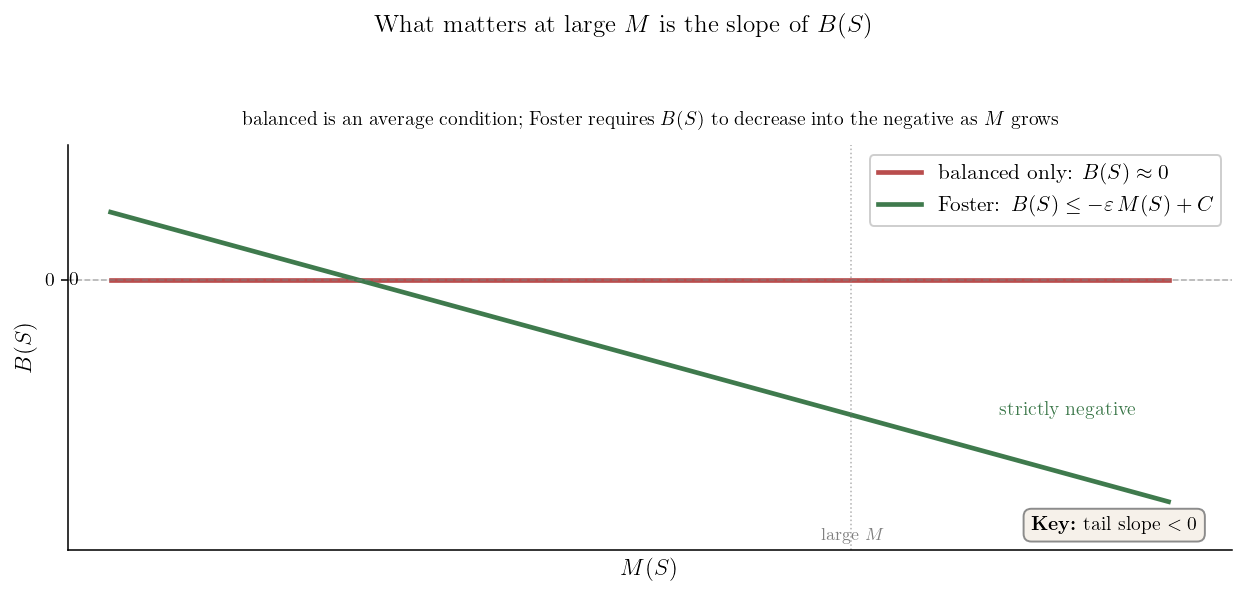
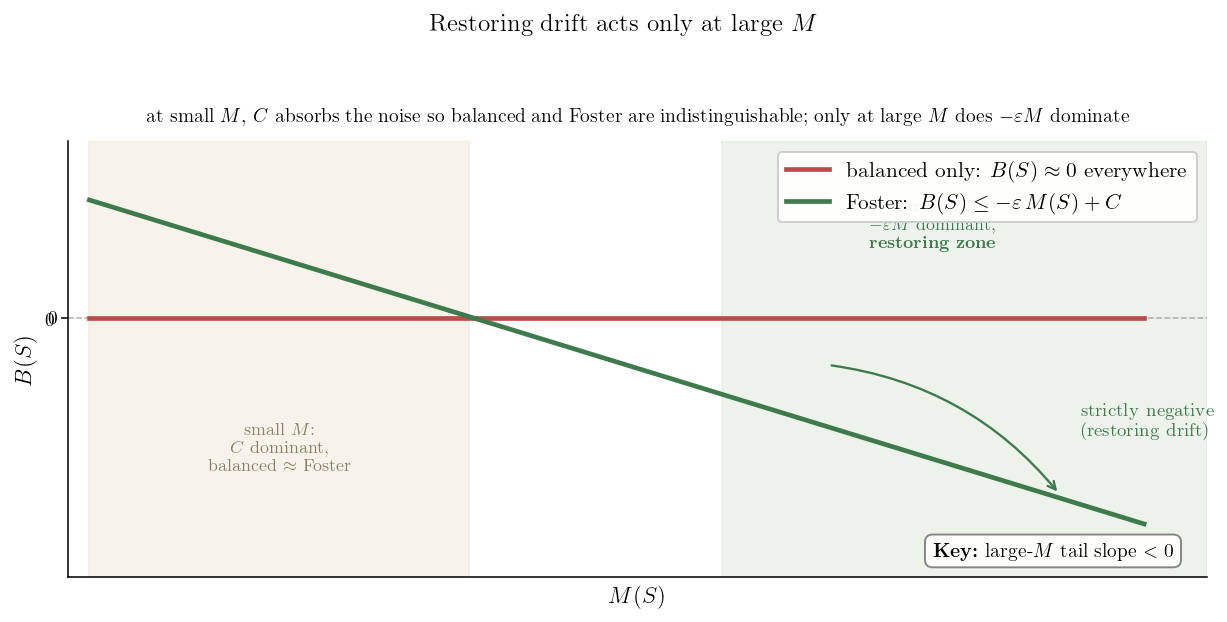
fix: Foster — _05 scatter+jackknife CI 양식, _07 직관 figure 정정 (small-M C zone / large-M restoring zone), 표·결론 단락 update

diff --git a/docs/Posts/260522_31c9e5.html b/docs/Posts/260522_31c9e5.html
@@ -300,79 +300,97 @@ window.Quarto = {
 </table>
 <p>Foster’s drift criterion (Assumption 1) 은 어떤 graph-level constant <span class="math inline">\(\varepsilon_B &gt; 0\)</span>, <span class="math inline">\(C_B \ge 0\)</span> 가 존재해서 모든 round 에서</p>
 <p><span class="math display">\[B(S_{t_r}) \;\le\; -\varepsilon_B\, M(S_{t_r}) + C_B\]</span></p>
-<p>가 성립하길 요구하는데, 여기서 <span class="math inline">\(B(S_{t_r}) = \sum_u \pi(u, S_{t_r}) \hbar(u, t_r)\)</span> 는 round 시작 시점의 weighted height deposit (Lemma 3 정의), <span class="math inline">\(\pi(u, S) = \mathbb{E}[\#_u | S_{t_r}]\)</span> 는 round 길이 동안 노드 <span class="math inline">\(u\)</span> 의 visit count 의 조건부 기댓값이다. 이 가정의 핵심 함의는 결국 height range <span class="math inline">\(M(t)\)</span> 가 시간 흐름에서 bounded 라는 것이다 — <span class="math inline">\(\varepsilon_B &gt; 0\)</span> 가 작동하면 큰 <span class="math inline">\(M\)</span> 에서 음의 drift 가 작용해 <span class="math inline">\(M\)</span> 이 다시 작아져 stationary 분포 위에 머문다 (positive Harris recurrence). 가정이 깨지면 <span class="math inline">\(M\)</span> 이 발산. 직관적으로 balanced 만 보장하는 그래프 (<span class="math inline">\(B \approx 0\)</span>, 평평) 와 Foster 가 발효되는 그래프 (large-<span class="math inline">\(M\)</span> 에서 <span class="math inline">\(B\)</span> 가 음수로 strictly 내려감) 의 차이가 large-<span class="math inline">\(M\)</span> tail 의 slope 부호 하나로 갈린다.</p>
+<p>가 성립하길 요구하는데, 여기서 <span class="math inline">\(B(S_{t_r}) = \sum_u \pi(u, S_{t_r}) \hbar(u, t_r)\)</span> 는 round 시작 시점의 weighted height deposit (Lemma 3 정의), <span class="math inline">\(\pi(u, S) = \mathbb{E}[\#_u | S_{t_r}]\)</span> 는 round 길이 동안 노드 <span class="math inline">\(u\)</span> 의 visit count 의 조건부 기댓값이다. 이 가정의 핵심 함의는 결국 height range <span class="math inline">\(M(t)\)</span> 가 시간 흐름에서 bounded 라는 것이다 — <span class="math inline">\(\varepsilon_B &gt; 0\)</span> 가 작동하면 큰 <span class="math inline">\(M\)</span> 에서 음의 drift 가 작용해 <span class="math inline">\(M\)</span> 이 다시 작아져 stationary 분포 위에 머문다 (positive Harris recurrence). 가정이 깨지면 <span class="math inline">\(M\)</span> 이 발산. 직관적으로 <strong>복원력은 large-<span class="math inline">\(M\)</span> 영역에서만 작동한다</strong> — 작은 <span class="math inline">\(M\)</span> 영역에선 <span class="math inline">\(C_B\)</span> term 가 noise 를 흡수해 <span class="math inline">\(B\)</span> 가 양수도 음수도 OK, balanced 만 만족하는 그래프와 Foster 가 발효되는 그래프가 사실상 구분 안 된다. 두 condition 의 차이는 <span class="math inline">\(-\varepsilon_B M\)</span> term 가 dominant 해지는 large-<span class="math inline">\(M\)</span> tail 의 slope 부호 하나로 갈린다.</p>
 <p><img src="attachments/260522_31c9e5_07.png" class="img-fluid"></p>
 <p>그러니 <span class="math inline">\(M\)</span> 시계열의 long-run behavior 가 가정의 진짜 의미를 직접 보여준다 — 위 시계열 figure 가 그 자체로 Assumption 1 의 graph-별 검증이다.</p>
 <p>가정의 정량 검증은 <span class="math inline">\(\mathbb{E}[B \mid M]\)</span> 의 large-<span class="math inline">\(M\)</span> 부호. instantaneous 추정 <span class="math inline">\(B^{\rm emp}_r := \sum_u \#_u(r) \hbar(u, t_r)\)</span> 를 round 별 sample 로 기록하고, <span class="math inline">\((M_r, B^{\rm emp}_r)\)</span> sample 들을 log-spaced <span class="math inline">\(M\)</span>-bin 으로 group 하여 bin 별 평균 <span class="math inline">\(\overline{B}_{\rm bin}\)</span> 을 직접 추정한다. 이 binned conditional 추정의 large-<span class="math inline">\(M\)</span> tail 의 linear fit slope 의 부호가 가정의 <span class="math inline">\(\varepsilon_B\)</span> 부호 판정의 정확한 양식이다 — 양수 slope = 가정 위반, 음수 slope = 가정 만족.</p>
 <p><img src="attachments/260522_31c9e5_05.png" class="img-fluid"></p>
-<p>11 그래프 각 panel 의 (<span class="math inline">\(M\)</span>-bin center, <span class="math inline">\(\overline{B}_{\rm bin}\)</span>) marker + 후미 절반 bin 의 linear fit. tail slope:</p>
+<p>11 그래프 각 panel 의 <span class="math inline">\((M_r, B^{\rm emp}_r)\)</span> scatter (회색) + (<span class="math inline">\(M\)</span>-bin center, <span class="math inline">\(\overline{B}_{\rm bin}\)</span>) marker (파랑) + 후미 절반 bin 의 linear fit (빨강 dashed) + jackknife (bin-level LOO) 로 추정한 slope 의 <span class="math inline">\(\pm 1.96\,\text{SE}\)</span> band. CI 가 0 의 한쪽에 strictly 머무는지가 판정 기준:</p>
 <table class="caption-top table">
+<colgroup>
+<col style="width: 25%">
+<col style="width: 25%">
+<col style="width: 25%">
+<col style="width: 25%">
+</colgroup>
 <thead>
 <tr class="header">
 <th>그래프</th>
-<th>tail slope</th>
+<th>tail slope <span class="math inline">\(\pm\)</span> 1.96 SE</th>
+<th>95% CI</th>
 <th>Foster L1</th>
 </tr>
 </thead>
 <tbody>
 <tr class="odd">
 <td><span class="math inline">\(C_{20}\)</span> cycle</td>
-<td><span class="math inline">\(-0.157\)</span></td>
-<td><span class="math inline">\(\checkmark\)</span> hold</td>
+<td><span class="math inline">\(-0.157 \pm 0.103\)</span></td>
+<td><span class="math inline">\([-0.26,\,-0.05]\)</span></td>
+<td><span class="math inline">\(\checkmark\)</span> <strong>hold</strong></td>
 </tr>
 <tr class="even">
 <td><span class="math inline">\(K_{10}\)</span> complete</td>
-<td><span class="math inline">\(-0.119\)</span></td>
-<td><span class="math inline">\(\checkmark\)</span> hold</td>
+<td><span class="math inline">\(-0.119 \pm 0.317\)</span></td>
+<td><span class="math inline">\([-0.44,\,+0.20]\)</span></td>
+<td>? border (CI <span class="math inline">\(\ni 0\)</span>)</td>
 </tr>
 <tr class="odd">
 <td>Cyl Inter-bidir</td>
-<td><span class="math inline">\(-0.041\)</span></td>
-<td><span class="math inline">\(\checkmark\)</span> hold</td>
+<td><span class="math inline">\(-0.041 \pm 0.057\)</span></td>
+<td><span class="math inline">\([-0.10,\,+0.02]\)</span></td>
+<td>? border (CI <span class="math inline">\(\ni 0\)</span>)</td>
 </tr>
 <tr class="even">
 <td>Bidir Path</td>
-<td><span class="math inline">\(+0.0008\)</span></td>
-<td><span class="math inline">\(\times\)</span> violate (<span class="math inline">\(\approx 0\)</span>)</td>
+<td><span class="math inline">\(+0.001 \pm 0.012\)</span></td>
+<td><span class="math inline">\([-0.01,\,+0.01]\)</span></td>
+<td>? border (CI <span class="math inline">\(\ni 0\)</span>)</td>
 </tr>
 <tr class="odd">
 <td>Wheel Bidir</td>
-<td><span class="math inline">\(+0.003\)</span></td>
-<td><span class="math inline">\(\times\)</span> violate (<span class="math inline">\(\approx 0\)</span>)</td>
+<td><span class="math inline">\(+0.003 \pm 0.010\)</span></td>
+<td><span class="math inline">\([-0.01,\,+0.01]\)</span></td>
+<td>? border (CI <span class="math inline">\(\ni 0\)</span>)</td>
 </tr>
 <tr class="even">
-<td><span class="math inline">\(C_{60}\)</span>+pendant</td>
-<td><span class="math inline">\(+0.010\)</span></td>
-<td><span class="math inline">\(\times\)</span> violate (작음)</td>
+<td>Bidir Ring</td>
+<td><span class="math inline">\(+0.020 \pm 0.109\)</span></td>
+<td><span class="math inline">\([-0.09,\,+0.13]\)</span></td>
+<td>? border (CI <span class="math inline">\(\ni 0\)</span>)</td>
 </tr>
 <tr class="odd">
-<td>Bidir Ring</td>
-<td><span class="math inline">\(+0.020\)</span></td>
-<td><span class="math inline">\(\times\)</span> violate (작음)</td>
+<td><span class="math inline">\(C_{60}\)</span>+pendant</td>
+<td><span class="math inline">\(+0.010 \pm 0.002\)</span></td>
+<td><span class="math inline">\([+0.008,\,+0.012]\)</span></td>
+<td><span class="math inline">\(\times\)</span> violate</td>
 </tr>
 <tr class="even">
 <td>D-Helm Bidir</td>
-<td><span class="math inline">\(+0.107\)</span></td>
+<td><span class="math inline">\(+0.107 \pm 0.014\)</span></td>
+<td><span class="math inline">\([+0.09,\,+0.12]\)</span></td>
 <td><span class="math inline">\(\times\)</span> violate</td>
 </tr>
 <tr class="odd">
 <td>kite</td>
-<td><span class="math inline">\(+0.333\)</span></td>
+<td><span class="math inline">\(+0.333 \pm 0.006\)</span></td>
+<td><span class="math inline">\([+0.33,\,+0.34]\)</span></td>
 <td><span class="math inline">\(\times\)</span> violate</td>
 </tr>
 <tr class="even">
 <td>Helm Bidir</td>
-<td><span class="math inline">\(+0.807\)</span></td>
+<td><span class="math inline">\(+0.807 \pm 0.006\)</span></td>
+<td><span class="math inline">\([+0.80,\,+0.81]\)</span></td>
 <td><span class="math inline">\(\times\)</span> violate</td>
 </tr>
 <tr class="odd">
 <td>Star Outward</td>
-<td><span class="math inline">\(+0.993\)</span></td>
+<td><span class="math inline">\(+0.993 \pm 0.0003\)</span></td>
+<td><span class="math inline">\([+0.99,\,+0.99]\)</span></td>
 <td><span class="math inline">\(\times\)</span> violate</td>
 </tr>
 </tbody>
 </table>
-<p>그룹 A 5 그래프 (<span class="math inline">\(M\)</span> 시계열 진단 기준) 중 정확한 binned 추정에서는 <span class="math inline">\(K_{10}/C_{20}/\text{Cyl Inter-bidir}\)</span> 3 그래프만 가정 만족, Bidir Ring/Wheel Bidir/<span class="math inline">\(C_{60}\)</span>+pendant/Bidir Path 는 slope ≈ 0 의 borderline 으로 갈라진다. <span class="math inline">\(M\)</span> 시계열의 bounded class 자체는 stationary recurrence 보장이지만, <span class="math inline">\(\overline{B}_{\rm bin}\)</span> 의 정확한 부호는 graph geometry 의 mixing speed (ACF 진단의 <span class="math inline">\(K_{10}\)</span> 만 빠름 / 나머지 long-range correlated) 와 연결되어, finite-<span class="math inline">\(\tau\)</span> noise 가 borderline 그래프의 slope 부호를 결정한다.</p>
+<p>jackknife CI 를 같이 보면 옛 “tail slope 부호만” 양식보다 판정 reliability 가 훨씬 명확해진다. 강 violate 5 그래프 (kite, <span class="math inline">\(C_{60}\)</span>+pendant, Star Outward, Helm Bidir, D-Helm Bidir) 는 CI 가 strictly positive — Foster L1 분명 위배. 그룹 A 5 그래프 (<span class="math inline">\(M\)</span> 시계열 진단 기준) 중에서는 <span class="math inline">\(C_{20}\)</span> 만 CI 가 strictly negative 로 분명한 hold, 나머지 4 그래프 (<span class="math inline">\(K_{10}/\)</span>Cyl Inter-bidir/Wheel Bidir/Bidir Ring) 는 모두 CI 가 0 을 포함하는 <strong>borderline</strong> 으로 떨어진다 — large-<span class="math inline">\(M\)</span> 영역의 sample 밀도가 낮아 마지막 bin 의 outlier 영향이 jackknife SE 를 크게 만들기 때문 (<span class="math inline">\(K_{10}\)</span> 의 SE <span class="math inline">\(=0.32\)</span> 가 대표적). <span class="math inline">\(M\)</span> 시계열의 bounded class 자체는 stationary recurrence 보장이지만, <span class="math inline">\(\overline{B}_{\rm bin}\)</span> 의 정확한 large-<span class="math inline">\(M\)</span> 부호는 graph geometry 의 mixing speed (ACF 진단의 <span class="math inline">\(K_{10}\)</span> 만 빠름 / 나머지 long-range correlated) 와 finite-<span class="math inline">\(\tau\)</span> noise 의 영향이 결합되어, hold/violate 의 strict 판정을 어렵게 한다.</p>
 <p>위 11 그래프 결과는 본문 시뮬의 graph instance 별 finite-<span class="math inline">\(n\)</span> 측정. borderline 그래프 (slope <span class="math inline">\(\approx 0\)</span>) 가 graph 의 본질적 성질인지 아니면 finite-<span class="math inline">\(n\)</span> artifact 인지 확인하려면 같은 그래프 family 의 <span class="math inline">\(n\)</span> 을 가변해 sweep 해야 한다. 본인 Wheel Bidir / Bidir Path / <span class="math inline">\(C_n\)</span>+pendant 3 family 에 대해 <span class="math inline">\(n=10\sim 1001\)</span> 범위로 추가 시뮬한 결과:</p>
 <p><img src="attachments/260522_31c9e5_06.png" class="img-fluid"></p>
 <p>세 family 의 <span class="math inline">\(n\)</span>-의존성이 정반대다.</p>
@@ -382,7 +400,7 @@ window.Quarto = {
 <li><strong><span class="math inline">\(C_n\)</span>+pendant</strong> (<span class="math inline">\(n=21 \to 61 \to 201 \to 1001\)</span>): slope <span class="math inline">\(+0.027 \to +0.010 \to +0.003 \to -0.0015\)</span>. <span class="math inline">\(n=1001\)</span> 에서 hold 로 도달 — pendant 비중 <span class="math inline">\(= 1/n \to 0\)</span> 라 큰 ring 의 perturbation 이 사라지며 ring 자체의 균등성에 수렴.</li>
 </ul>
 <p>본문 11 그래프 중 <span class="math inline">\(C_n\)</span>+pendant (<span class="math inline">\(n=61\)</span> small-n violate) 는 사실상 hold 그래프 (asymptotic), Bidir Path (<span class="math inline">\(n=60\)</span> slope <span class="math inline">\(+0.0008\)</span> borderline) 는 약한 violate. Wheel Bidir 는 <span class="math inline">\(n=11\)</span> 에서 slope 가 <span class="math inline">\(\approx 0\)</span> 이지만 <span class="math inline">\(n\)</span> 이 커질수록 violate 강화. <strong>borderline 측정 자체가 finite-<span class="math inline">\(n\)</span> 의 artifact 일 수 있어, 그래프 클래스의 Foster L1 hold/violate 판정은 asymptotic 거동 (<span class="math inline">\(n \to \infty\)</span>) 으로 확인해야 robust 하다.</strong></p>
-<p>결론적으로 Assumption 1 은 ABC 의 핵심 hypothesis 임에도 모든 그래프에서 자동 성립하는 보편 명제가 아니다. Theorem A (balanced) 의 적용 범위는 사실상 fully symmetric + strong mixing 그래프 (Cycle, Complete, Ring, 그리고 large-<span class="math inline">\(n\)</span> pendant-perturbed ring) 로 제한될 가능성이 있고, 비대칭이 graph 크기에 따라 발산하는 그래프 (Star Outward, Helm 류, kite, Wheel, Bidir Path) 에서는 Foster-Lyapunov 가 직접 적용되지 않을 수 있다. Brémaud Lem 8.2.3 (essential edge) + Thm 8.3.8 (Rayleigh) 의 graph geometry 도구로 위반 mechanism (small-conductance bottleneck) 의 정확한 식별이 후속 과제.</p>
+<p>결론적으로 Assumption 1 은 ABC 의 핵심 hypothesis 임에도 모든 그래프에서 자동 성립하는 보편 명제가 아니다. 본 11 그래프 검증에서 jackknife CI 기준 strict hold 는 <span class="math inline">\(C_{20}\)</span> 1 그래프 뿐, strict violate 는 비대칭 5 그래프 (kite, <span class="math inline">\(C_{60}\)</span>+pendant, Star Outward, Helm/D-Helm Bidir), 나머지 5 그래프 (<span class="math inline">\(K_{10}\)</span>, Cyl Inter-bidir, Wheel Bidir, Bidir Path, Bidir Ring) 는 finite-<span class="math inline">\(\tau\)</span> noise 에 압도되는 borderline 으로 판정 보류. Theorem A (balanced) 의 적용 범위는 사실상 fully symmetric + strong mixing 그래프 (large-<span class="math inline">\(n\)</span> Cycle, 그리고 large-<span class="math inline">\(n\)</span> pendant-perturbed ring) 로 제한될 가능성이 있고, 비대칭이 graph 크기에 따라 발산하는 그래프 (Star Outward, Helm 류, kite, Wheel) 에서는 Foster-Lyapunov 가 직접 적용되지 않을 수 있다. Brémaud Lem 8.2.3 (essential edge) + Thm 8.3.8 (Rayleigh) 의 graph geometry 도구로 위반 mechanism (small-conductance bottleneck) 의 정확한 식별, 그리고 borderline 5 그래프의 본질 판정 (finite-<span class="math inline">\(\tau\)</span> artifact vs 본질적 borderline) 이 후속 과제.</p>
 <section id="어펜딕스.-표기-정리-에이-abc공유용_v2.tex-1.1-3.3-3.4" class="level2">
 <h2 class="anchored" data-anchor-id="어펜딕스.-표기-정리-에이-abc공유용_v2.tex-1.1-3.3-3.4">어펜딕스. 표기 정리 (에이 <code>abc공유용_v2.tex</code> §1.1, §3.3, §3.4)</h2>
 <table class="caption-top table">
@@ -431,8 +449,8 @@ window.Quarto = {
 </tr>
 </tbody>
 </table>
-<section id="시뮬-코드와-figure-생성-코드는-본인-책상에-보관-260523_소미_foster_verify_modela.py-full-hst-step-wise-iid-b_s-260523_소미_foster_m_series_modela.py-m-시계열-260523_소미_foster_m_diag_modela.py-acf-tightness-260523_소미_foster_m_bin_conditional_modela.py-m-bin-conditional-260523_소미_wheel_n_sweep_modela.py-260523_소미_borderline_n_sweep_modela.py-n-sweep.-raw-캐시-resultsnumeric260523_소미_foster_verify_modela.py_foster_verify_modela.npz." class="level5">
-<h5 class="anchored" data-anchor-id="시뮬-코드와-figure-생성-코드는-본인-책상에-보관-260523_소미_foster_verify_modela.py-full-hst-step-wise-iid-b_s-260523_소미_foster_m_series_modela.py-m-시계열-260523_소미_foster_m_diag_modela.py-acf-tightness-260523_소미_foster_m_bin_conditional_modela.py-m-bin-conditional-260523_소미_wheel_n_sweep_modela.py-260523_소미_borderline_n_sweep_modela.py-n-sweep.-raw-캐시-resultsnumeric260523_소미_foster_verify_modela.py_foster_verify_modela.npz.">시뮬 코드와 figure 생성 코드는 본인 책상에 보관: <code>260523_소미_foster_verify_modelA.py</code> (full HST + step-wise iid <span class="math inline">\(b'_s\)</span>), <code>260523_소미_foster_M_series_modelA.py</code> (<span class="math inline">\(M\)</span> 시계열), <code>260523_소미_foster_M_diag_modelA.py</code> (ACF + tightness), <code>260523_소미_foster_M_bin_conditional_modelA.py</code> (<span class="math inline">\(M\)</span>-bin conditional), <code>260523_소미_wheel_n_sweep_modelA.py</code> + <code>260523_소미_borderline_n_sweep_modelA.py</code> (<span class="math inline">\(n\)</span>-sweep). raw 캐시: <code>results/numeric/260523_소미_foster_verify_modelA.py/*_foster_verify_modelA.npz</code>.</h5>
+<section id="시뮬-코드와-figure-생성-코드는-본인-책상에-보관-260523_소미_foster_verify_modela.py-full-hst-step-wise-iid-b_s-260523_소미_foster_m_series_modela.py-m-시계열-260523_소미_foster_m_diag_modela.py-acf-tightness-260523_소미_foster_m_bin_with_scatter.py-m-bin-conditional-scatter-jackknife-ci-260523_소미_wheel_n_sweep_modela.py-260523_소미_borderline_n_sweep_modela.py-n-sweep-260523_소미_foster_graph_layouts.py-11-그래프-layout-260523_소미_foster_intuition.py-foster-부등식-직관.-raw-캐시-resultsnumeric260523_소미_foster_verify_modela.py_foster_verify_modela.npz." class="level5">
+<h5 class="anchored" data-anchor-id="시뮬-코드와-figure-생성-코드는-본인-책상에-보관-260523_소미_foster_verify_modela.py-full-hst-step-wise-iid-b_s-260523_소미_foster_m_series_modela.py-m-시계열-260523_소미_foster_m_diag_modela.py-acf-tightness-260523_소미_foster_m_bin_with_scatter.py-m-bin-conditional-scatter-jackknife-ci-260523_소미_wheel_n_sweep_modela.py-260523_소미_borderline_n_sweep_modela.py-n-sweep-260523_소미_foster_graph_layouts.py-11-그래프-layout-260523_소미_foster_intuition.py-foster-부등식-직관.-raw-캐시-resultsnumeric260523_소미_foster_verify_modela.py_foster_verify_modela.npz.">시뮬 코드와 figure 생성 코드는 본인 책상에 보관: <code>260523_소미_foster_verify_modelA.py</code> (full HST + step-wise iid <span class="math inline">\(b'_s\)</span>), <code>260523_소미_foster_M_series_modelA.py</code> (<span class="math inline">\(M\)</span> 시계열), <code>260523_소미_foster_M_diag_modelA.py</code> (ACF + tightness), <code>260523_소미_foster_M_bin_with_scatter.py</code> (<span class="math inline">\(M\)</span>-bin conditional + scatter + jackknife CI), <code>260523_소미_wheel_n_sweep_modelA.py</code> + <code>260523_소미_borderline_n_sweep_modelA.py</code> (<span class="math inline">\(n\)</span>-sweep), <code>260523_소미_foster_graph_layouts.py</code> (11 그래프 layout), <code>260523_소미_foster_intuition.py</code> (Foster 부등식 직관). raw 캐시: <code>results/numeric/260523_소미_foster_verify_modelA.py/*_foster_verify_modelA.npz</code>.</h5>
 
 
 </section>
